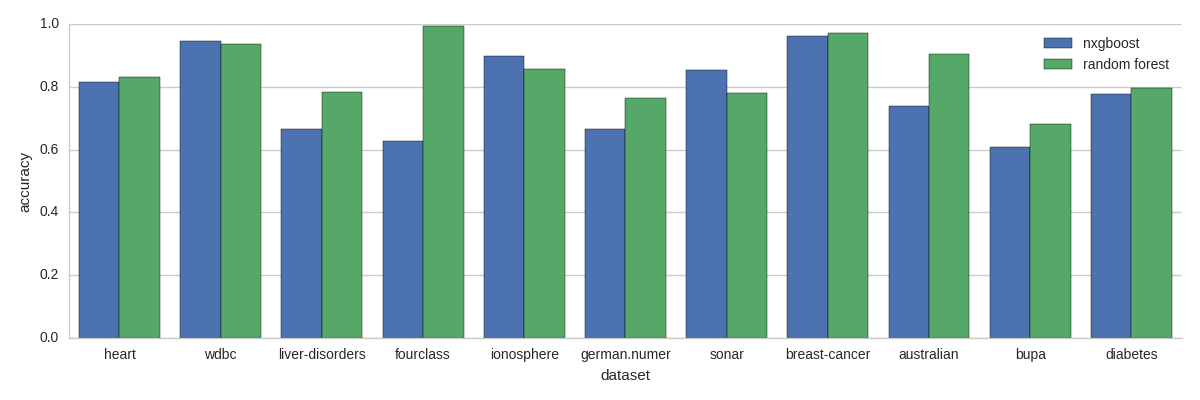
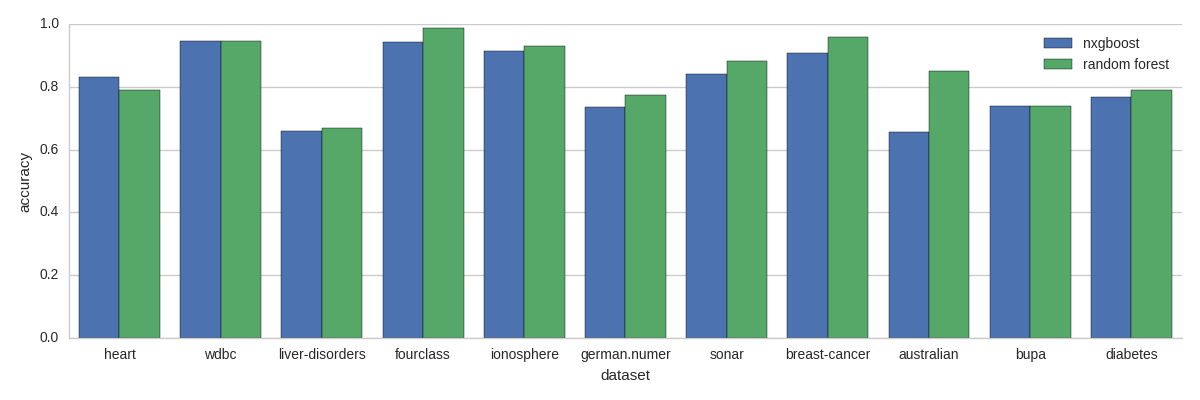
final

diff --git a/nxgboost.py b/nxgboost.py
@@ -1,5 +1,5 @@
 import numpy as np
-from heap import Heap
+from heap import MaxHeap
 
 class SquareLoss(object):
     def __init__(self):
@@ -9,14 +9,14 @@ class SquareLoss(object):
         return 2 * (prediction - target)
         
     def H(self, prediction, target):
-        return 2
-                        
+        return 2        
+
 class NXGBoost(object):
     def __init__(self):
         self.loss_func = SquareLoss()
         self.roots = []
 
-    def fit(self, x, y, n_estimators=100, eta=0.1, lambd=0.1, max_depth=2):
+    def fit(self, x, y, n_estimators=100, eta=0.1, lambd=0.1, max_depth=5):
         samples = self.init_samples(x, y)
         for _ in xrange(n_estimators):
             root = self.build_tree(eta, lambd, max_depth, samples)
@@ -46,19 +46,19 @@ class NXGBoost(object):
             'depth': 1,
             'samples': samples,
         }
+
         G = np.sum([self.loss_func.G(sample['prediction'], sample['target']) 
             for sample in samples])
         H = np.sum([self.loss_func.H(sample['prediction'], sample['target'])
             for sample in samples])
 
-        max_heap = Heap(cmp=lambda a, b: a[0] - b[0])
-
+        max_heap = MaxHeap(key=lambda x: x[0])
         max_heap.push(self.split_attempt(root, eta, lambd, G, H))
 
         while len(max_heap) > 0:
-            neg_score, node, lc, rc, k, val = max_heap.pop()
+            gain, node, lc, rc, k, val = max_heap.pop()
 
-            if neg_score == np.inf:
+            if gain == -np.inf:
                 break
 
             if node['depth'] >= max_depth:
@@ -78,7 +78,7 @@ class NXGBoost(object):
     def split_attempt(self, node, eta, lambd, G, H):
         samples = node['samples']
 
-        max_score = -np.inf
+        max_gain = -np.inf
         split_k = None
         split_val = None
         split_samples_l = None
@@ -94,16 +94,16 @@ class NXGBoost(object):
                 GL += self.loss_func.G(sample['prediction'], sample['target'])
                 HL += self.loss_func.H(sample['prediction'], sample['target'])
                 GR = G - GL
-                HR = G - HL
-                score = GL**2/(HL + lambd) + GR**2/(GR + lambd) - G**2/(H + lambd)
-                if max_score < score:
+                HR = H - HL
+                gain = GL**2/(HL + lambd) + GR**2/(HR + lambd) - G**2/(H + lambd)
+                if max_gain < gain:
                     split_k = k
                     split_val = sample['features'][k]
                     split_w_l = -GL/(HL + lambd) * eta
                     split_w_r = -GR/(HR + lambd) * eta
                     split_samples_l = sorted_samples[:j]
                     split_samples_r = sorted_samples[j:]
-                    max_score = score
+                    max_gain = gain
 
         children = []
 
@@ -129,11 +129,11 @@ class NXGBoost(object):
                 'samples': split_samples_r,
             })
 
-        # The score is negatived to fit the min heap
+        # The gain is negatived to fit the min heap
         if len(children) == 2:
-            return -max_score, node, children[0], children[1], split_k, split_val
+            return max_gain, node, children[0], children[1], split_k, split_val
         else:
-            return np.inf, None, None, None, None, None
+            return -np.inf, None, None, None, None, None
 
     def refresh_prediction(self, node):
         if node is None:

diff --git a/main.py b/main.py
@@ -24,7 +24,7 @@ def load_data(name):
     data = np.concatenate((x, y), axis=1)
     np.random.shuffle(data)
 
-    n_test = len(data) / 5
+    n_test = len(data) / 3
 
     train_x = data[: -n_test, :-1]
     train_y = data[: -n_test, -1:]
@@ -36,11 +36,11 @@ def load_data(name):
 
 def nxgb_callback(train_x, train_y, test_x):
     nxgb = NXGBoost()
-    nxgb.fit(train_x, train_y, n_estimators=50, eta=15e-2, lambd=13e-2, max_depth=10)
+    nxgb.fit(train_x, train_y, n_estimators=50, eta=0.1, lambd=1e-2, max_depth=5)
     return nxgb.predict(test_x)
 
 def rf_callback(train_x, train_y, test_x):
-    rf = RandomForestRegressor(n_estimators=50, max_depth=10)
+    rf = RandomForestRegressor(n_estimators=50, max_depth=5)
     rf.fit(train_x, train_y.ravel())
     return rf.predict(test_x)
 
@@ -58,12 +58,13 @@ def run(name):
     return nxgb_acc, rf_acc
 
 if __name__ == '__main__':
-    np.random.seed(27)
+    np.random.seed(7)
     dataset_names = set()
     result = []
     for file in os.listdir('data'):
         filename = file.split('.txt')[0]
         dataset_names.add(filename.split('label')[0])
+
     i = 0
     for dataset_name in dataset_names:
         i += 1
@@ -72,7 +73,7 @@ if __name__ == '__main__':
         nxgb_acc, rf_acc = run(dataset_name)
         print 'nxgboost acc:\t', nxgb_acc
         print 'random foreset acc:\t', rf_acc
-        print
+        print ''
 
         result.append(('nxgboost', dataset_name, nxgb_acc))
         result.append(('random forest', dataset_name, rf_acc))
@@ -80,7 +81,6 @@ if __name__ == '__main__':
     print 'Calculation Finished.'
 
     result = pd.DataFrame(result, columns=['model', 'dataset', 'accuracy'])
-
     sns.set(style="whitegrid")
     g = sns.factorplot("dataset", "accuracy", "model", 
                     data=result, saturation=5, 

diff --git a/heap.py b/heap.py
@@ -1,7 +1,7 @@
-class Heap(object):
-    def __init__(self, cmp):
+class MaxHeap(object):
+    def __init__(self, key):
         self.l = [0]
-        self.cmp = cmp
+        self.key = key
 
     def push(self, v):
         self.l[0] += 1
@@ -13,11 +13,14 @@ class Heap(object):
             self.l[i] = v
 
         p = i / 2
-        while p >= 1 and self.cmp(self.l[p], self.l[i]) < 0:
+        while p >= 1 and self.key(self.l[i]) > self.key(self.l[p]):
             self.l[p], self.l[i] = self.l[i], self.l[p]
             i, p = p, p / 2
 
     def pop(self):
+        if self.l[0] == 0:
+            raise Exception("Empty Heap")
+
         self.l[1], self.l[self.l[0]] = self.l[self.l[0]], self.l[1]
         self.l[0] -= 1
 
@@ -29,13 +32,13 @@ class Heap(object):
             if lc >= self.l[0]:
                 break
             elif rc >= self.l[0]:
-                maxc = lc
+                minc = lc
             else:
-                maxc = rc if self.cmp(self.l[lc], self.l[rc]) < 0 else lc
+                minc = lc if self.key(self.l[lc]) > self.key(self.l[rc]) else rc
 
-            if self.cmp(self.l[i], self.l[maxc]) < 0:
-                self.l[i], self.l[maxc] = self.l[maxc], self.l[i]
-                i = maxc
+            if self.key(self.l[minc]) > self.key(self.l[i]):
+                self.l[i], self.l[minc] = self.l[minc], self.l[i]
+                i = minc
             else:
                 break
 
@@ -43,3 +46,6 @@ class Heap(object):
 
     def __len__(self):
         return self.l[0]
+
+    def __str__(self):
+        return str([self.key(item) for item in self.l[1:]])

diff --git a/test.py b/test.py
@@ -1,0 +1,14 @@
+from heap import MaxHeap
+import numpy as np
+
+max_heap = MaxHeap(lambda x: x)
+
+for i in xrange(100):
+    r = np.random.rand()
+    print r
+    max_heap.push(r)
+
+print '------------------'
+
+while len(max_heap) > 0:
+    print max_heap.pop()

diff --git a/README.md b/README.md
@@ -32,6 +32,6 @@ Sometimes nxgboost outruns random forest, but in most data sets random forest se
 
 ##Parameters
 - n_estimators of both model:  **50**
-- max_depth of both model:     **10**
-- lambda of nxgboost:          **0.13**
-- eta of nxgboost:             **0.15**
+- max_depth of both model:     **5**
+- lambda of nxgboost:          **0.01**
+- eta of nxgboost:             **0.1**
